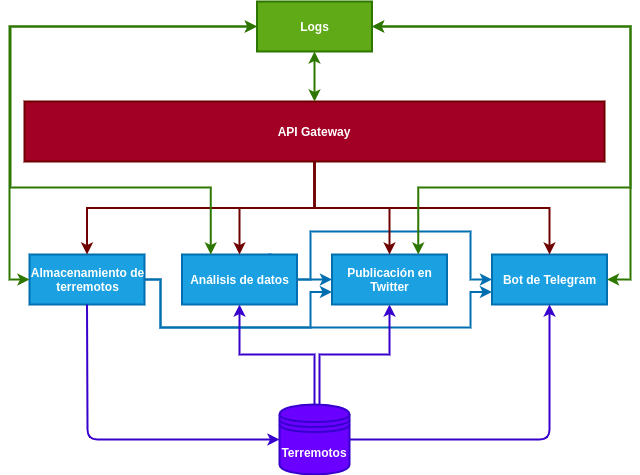
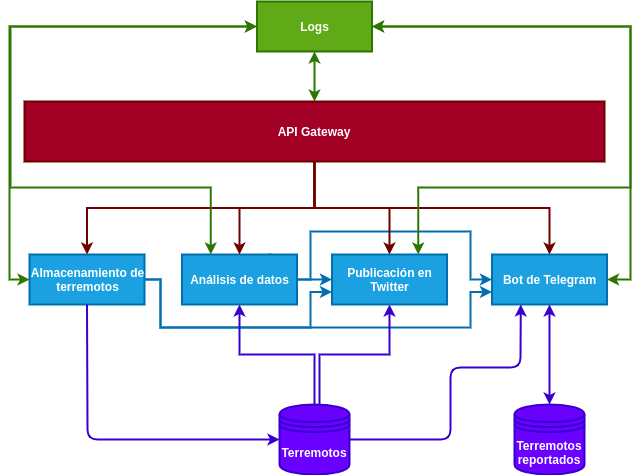
descripcion bases de datos. Avanza #8

Changed region(s): [[0.6875, 0.7663, 0.9375, 1.0], [0.7812, 0.6484, 0.8438, 0.6779]]

diff --git a/README.md b/README.md
@@ -33,6 +33,11 @@ Se tienen en cuenta las siguientes consideraciones:
 * Se hará un análisis semanal cuyo resultado se publicará tanto en Twitter como en Telegram.
 * Se desarrollará una API REST para la comunicación entre los distintos microservicios y la API Gateway.
 
+#### Bases de datos
+
+**Terremotos:** contiene todos los terremotos que van apareciendo en el catálogo de terremotos del IGN.
+**Terremotos reportados**: contiene todos los terremotos que los usuarios de Telegram van reportando
+
 ## Licencia
 
 El código de este repositorio está bajo la licencia [GPLv3](./LICENSE).
